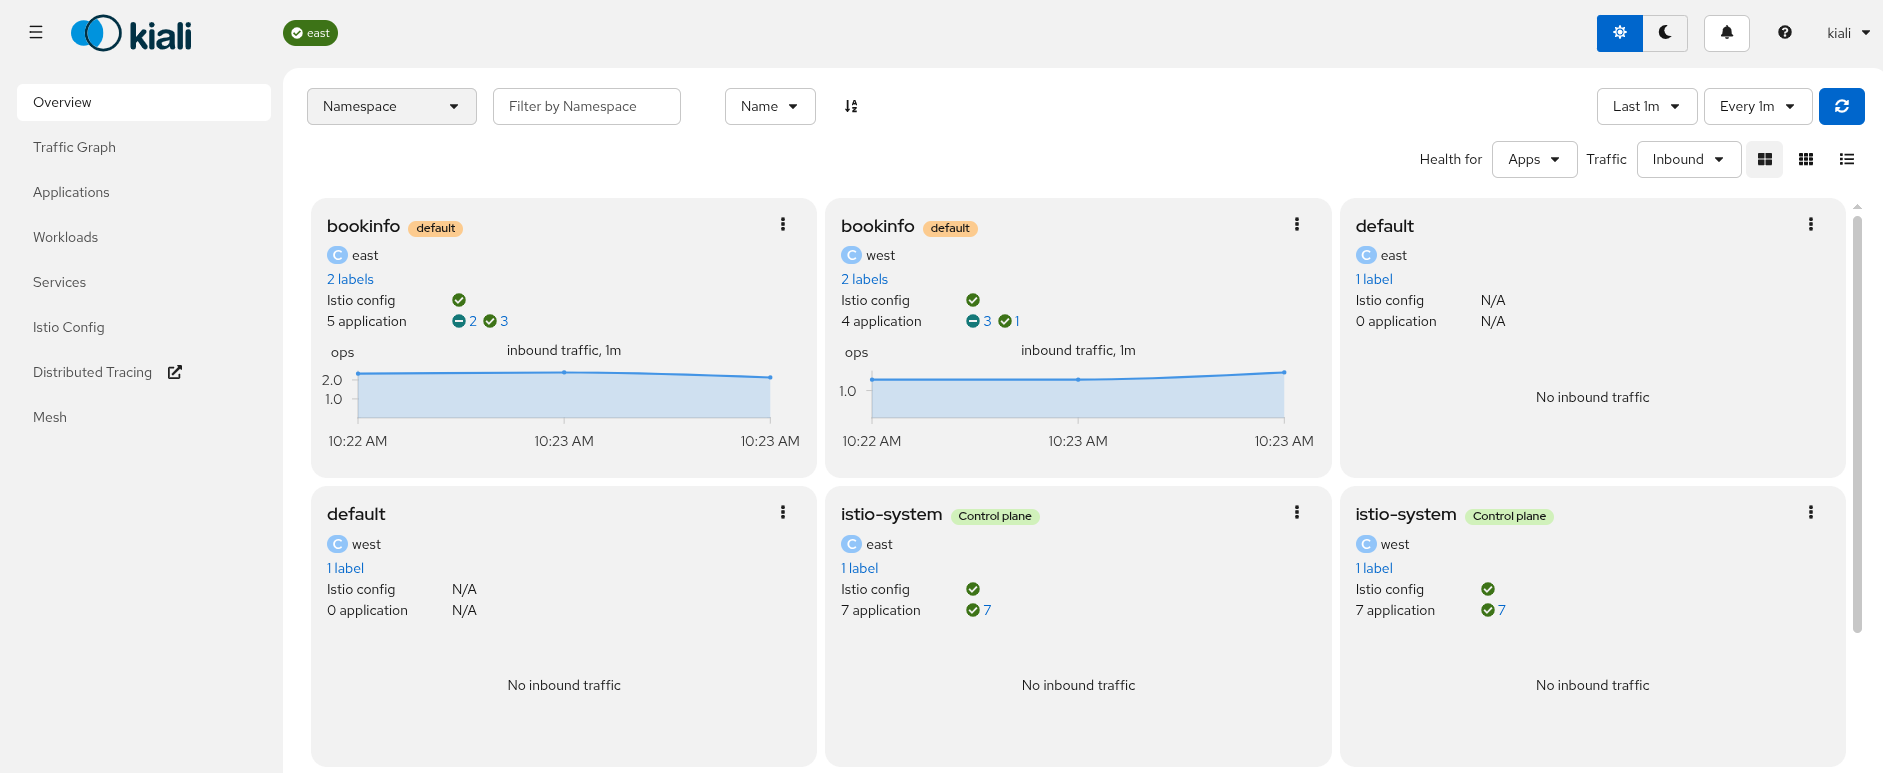
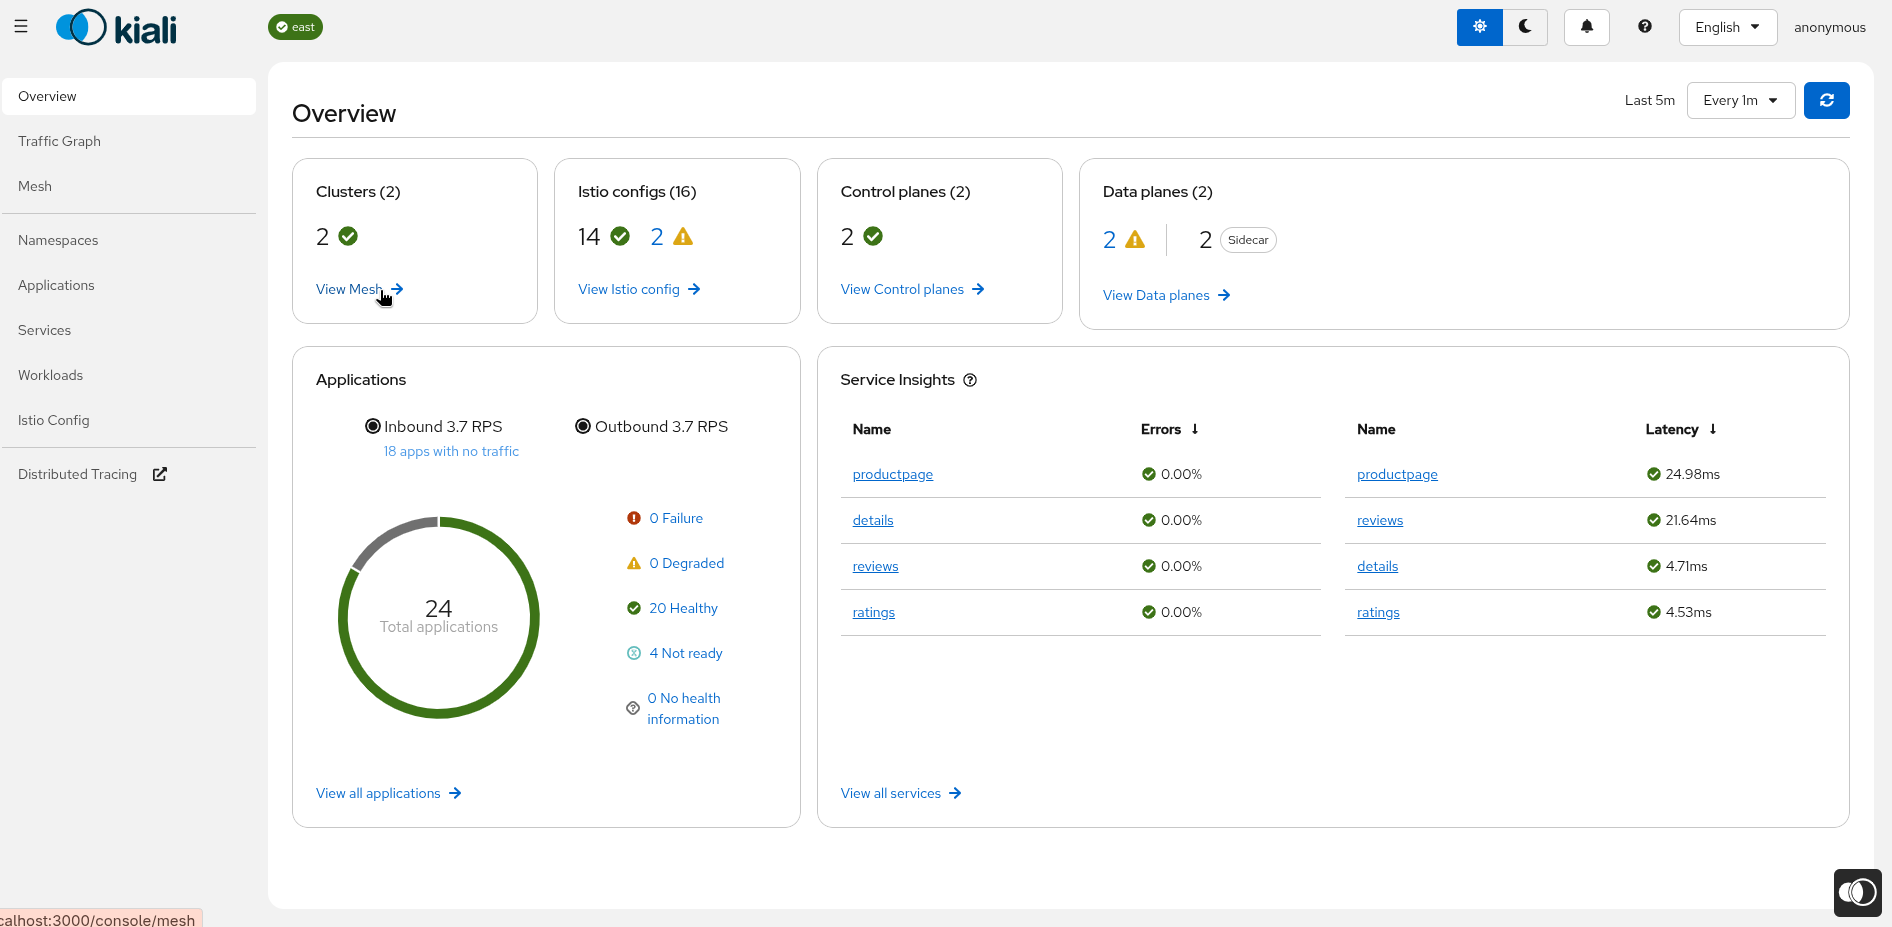
Update for new overview page

diff --git a/content/en/docs/Features/health.md b/content/en/docs/Features/health.md
@@ -15,7 +15,8 @@ For more detail on how Kiali tracks the Istio infrastructure status, see the [Is
 
 ## Overview Health
 
-The default Kiali page is an Overview Dashboard.  This view will quickly allow you to identify namespaces with issues.  It provides a summary of configuration health, component health and request traffic health.  The component health is selectable via a dropdown and the page offers various filter, sort and presentation options:
+The default Kiali page is an Overview Dashboard.  This view will quickly allow you to identify components with issues; 
+clusters, Istio configurations, control planes and data planes.  It provides a graph showing all the applications grouped by health, and a Service insights ranking showing the services with higher error rate and the services with highest P95 latency. 
 
 ![Overview Health](/images/documentation/features/health-overview.png "Overview Health")
 
@@ -23,7 +24,7 @@ The default Kiali page is an Overview Dashboard.  This view will quickly allow y
 
 The Kiali Graph offers a rich visualization of your service mesh traffic.  The health of Nodes and Edges is represented via a standard color system using shades of orange and red to reflect degraded and failure-level traffic health.  Red or orange nodes or edges may need attention. The color of an edge represents the request health between the relevant nodes. Note that node shape indicates the type of component, such as service, workload, or app.
 
-The health of nodes and edges is refreshed automatically based on the user's preference. The graph can also be paused to examine a particular state, or replayed to re-examine a particular time period.
+The health of nodes and edges is refreshed automatically based on the configuration of the cache. The graph can also be paused to examine a particular state, or replayed to re-examine a particular time period.
 
 ![Graph Health](/images/documentation/features/health-graph.png "Graph Health")
 

diff --git a/content/en/docs/Features/ambient.md b/content/en/docs/Features/ambient.md
@@ -19,7 +19,8 @@ The Kiali Ambient features, as well as Ambient Mesh, are evolving. Some of these
 
 ### Control Plane Ambient Mesh
 
-When the control plane is in Ambient mode, Kiali will show an Ambient badge on the Overview page control plane namespace card.  It will also be reflected in the control plane side-panel on the Mesh page.
+When the control plane is in Ambient mode, Kiali will show an Ambient badge on the Namespace for the control plane namespace,
+in the `type` column.  It will also be reflected in the control plane side-panel on the Mesh page.
 This badge indicates that Kiali has detected a ztunnel (the L4 component for Ambient) in the control plane.
 
 ![Ambient Control Plane](/images/documentation/features/ambient/ambient-control-plane.png)
@@ -30,7 +31,8 @@ For Kiali to detect Ambient, it needs to have access to the namespace were ztunn
 
 ### Ambient Namespace
 
-When a namespace is labeled with `istio.io/dataplane-mode=ambient` it is included in Ambient Mesh, and Kiali will show the Ambient badge on that Overview page namespace card: 
+When a namespace is labeled with `istio.io/dataplane-mode=ambient` it is included in Ambient Mesh, Kiali will show the 
+number of Ambient data planes, as well as the number of the Sidecar data planes: 
 
 ![Ambient Data Plane](/images/documentation/features/ambient/ambient-data-plane.png)
 

diff --git a/content/en/docs/Features/topology.md b/content/en/docs/Features/topology.md
@@ -7,7 +7,11 @@ Kiali offers multiple ways for users to examine their mesh Topology.  Each combi
 
 ## Overview
 
-Kiali's default page is the topology _Overview_.  It presents a high-level view of the namespaces accessible to Kiali, for this user.  It combines service and application information, along with telemetry, validations and health, to provide a holistic summary of system behvior.  The _Overview_ page provides numerous filtering, sorting and presentation options.  From here users can perform namespace-level Actions, or quickly navigate to more detailed views.
+Kiali's default page is the topology _Overview_.  It presents a high-level view of the namespaces accessible to Kiali, for this user.  It combines service and application information, along with telemetry, validations and health, to provide a holistic summary of system behavior, focused on highlighting any potential issues from the applications and services in the mesh.  
+
+![Topology overview](/images/documentation/features/multi-cluster-overview.png)
+
+The _Namespace_ page (Kiali >= 2.23) provides numerous filtering, sorting and presentation options for the available namespaces.  From here users can perform namespace-level Actions, or quickly navigate to more detailed views.
 
 ![Topology namespace overview](/images/documentation/features/topology-overview.png)
 

diff --git a/content/en/docs/Features/internationalization.md b/content/en/docs/Features/internationalization.md
@@ -29,14 +29,15 @@ spec:
 You can also modify the default language shown in Kiali (values according to ISO 639-1 codes):
 
 | <div style="width:100px">Language</div> | <div style="width:70px">Code</div> |
-| --------------------------------------- | ---------------------------------- |
+|-----------------------------------------|------------------------------------|
 | Chinese                                 | zh                                 |
 | English                                 | en                                 |
+| Spanish                                 | es                                 |
 
 <br />
 
-As an example, this is how Kiali displays the Overview page in Chinese:
+As an example, this is how Kiali displays the Overview page in Spanish:
 
-![Overview page in Chinese](/images/documentation/features/internationalization-chinese.png "Overview page in Chinese")
+![Overview page in Spanish](/images/documentation/features/internationalization-spanish.png "Overview page in Spanish")
 
 If you want to collaborate with us on adding a new language or improving the translation of an existing one, please refer to the internationalization section of the kiali project's [README for UI](https://github.com/kiali/kiali/blob/master/frontend/README.adoc#internationalization-i18n)

diff --git a/content/en/docs/Features/security.md b/content/en/docs/Features/security.md
@@ -15,9 +15,9 @@ Kiali shows a hollow lock when either the mesh is configured in `PERMISSIVE` mod
 
 ![mTLS mesh-wide permissive](/images/documentation/features/security-mesh-hollow.png "mTLS mesh-wide strict")
 
-## Overview locks
+## Namespace locks
 
-The overview page shows all the available namespaces with aggregated data. Besides the health and validations, Kiali shows also the `mTLS` status at namespace-wide. Similar to the Mesh page, it shows a lock when strict `mTLS` is enabled or a hollow lock when permissive.
+The namespaces page shows all the available namespaces with aggregated data. Besides the health and validations, Kiali shows also the `mTLS` status at namespace-wide. Similar to the Mesh page, it shows a lock when strict `mTLS` is enabled or an open lock when permissive. A red open locker is shown when the mTLS is disabled. When the namespace doesn't include a mTLS policy and it is inherited from the mesh, a down arrow is shown, and the inherited mTLS is described in the badge. 
 
 ![Overview: Namespace mTLS](/images/documentation/features/security-overview-mtls.png "Overview: Namespace mTLS")
 

diff --git a/content/en/docs/Features/configuration.md b/content/en/docs/Features/configuration.md
@@ -70,11 +70,11 @@ K8s Reference Grants resources:
 
 Kiali also has Wizards available from the Overview page, and many details pages, such as Service Detail to create routing rules. The Kiali [Travel Tutorial]({{< ref "/docs/tutorials/travels" >}}) goes into several of these wizards.
 
-#### Overview Wizards
+#### Namespaces Wizards
 
-The Overview page has namespace-specific actions for creating traffic policies:
+The namespaces page (Kiali >= 2.23) has namespace-specific actions for creating traffic policies:
 
-![Overview Actions](/images/documentation/features/overview-actions.png "Overview Actions")
+![Namespace Actions](/images/documentation/features/overview-actions.png "Namespace Actions")
 
 #### Service Wizards
 

diff --git a/content/en/docs/Features/wizards.md b/content/en/docs/Features/wizards.md
@@ -113,7 +113,7 @@ Kiali allows users to alter the Deployment template and propagate this configura
 
 ## Namespace Actions
 
-The Kiali Overview page offers several *Namespace* actions, in any of its views: Expanded, Compacted or Table.
+The Kiali Namespaces page (Kiali >= 2.23) offers several *Namespace* actions.
 
 ![Namespace Actions](/images/documentation/features/actions-namespace.png "Namespace Actions")
 

diff --git a/content/en/docs/Configuration/istio.md b/content/en/docs/Configuration/istio.md
@@ -86,6 +86,8 @@ spec:
     istio_upgrade_action: true
 ```
 
+Upgrade actions will appear in the namespaces menu (Kiali <= 2.23)
+
 ![Canary upgrade action](/images/documentation/configuration/canary-upgrade-action.png "Canary upgrade action")
 
 The progress of the canary upgrade process can be tracked on the mesh page, which displays the namespaces pending migration to the canary Istio control plane.
